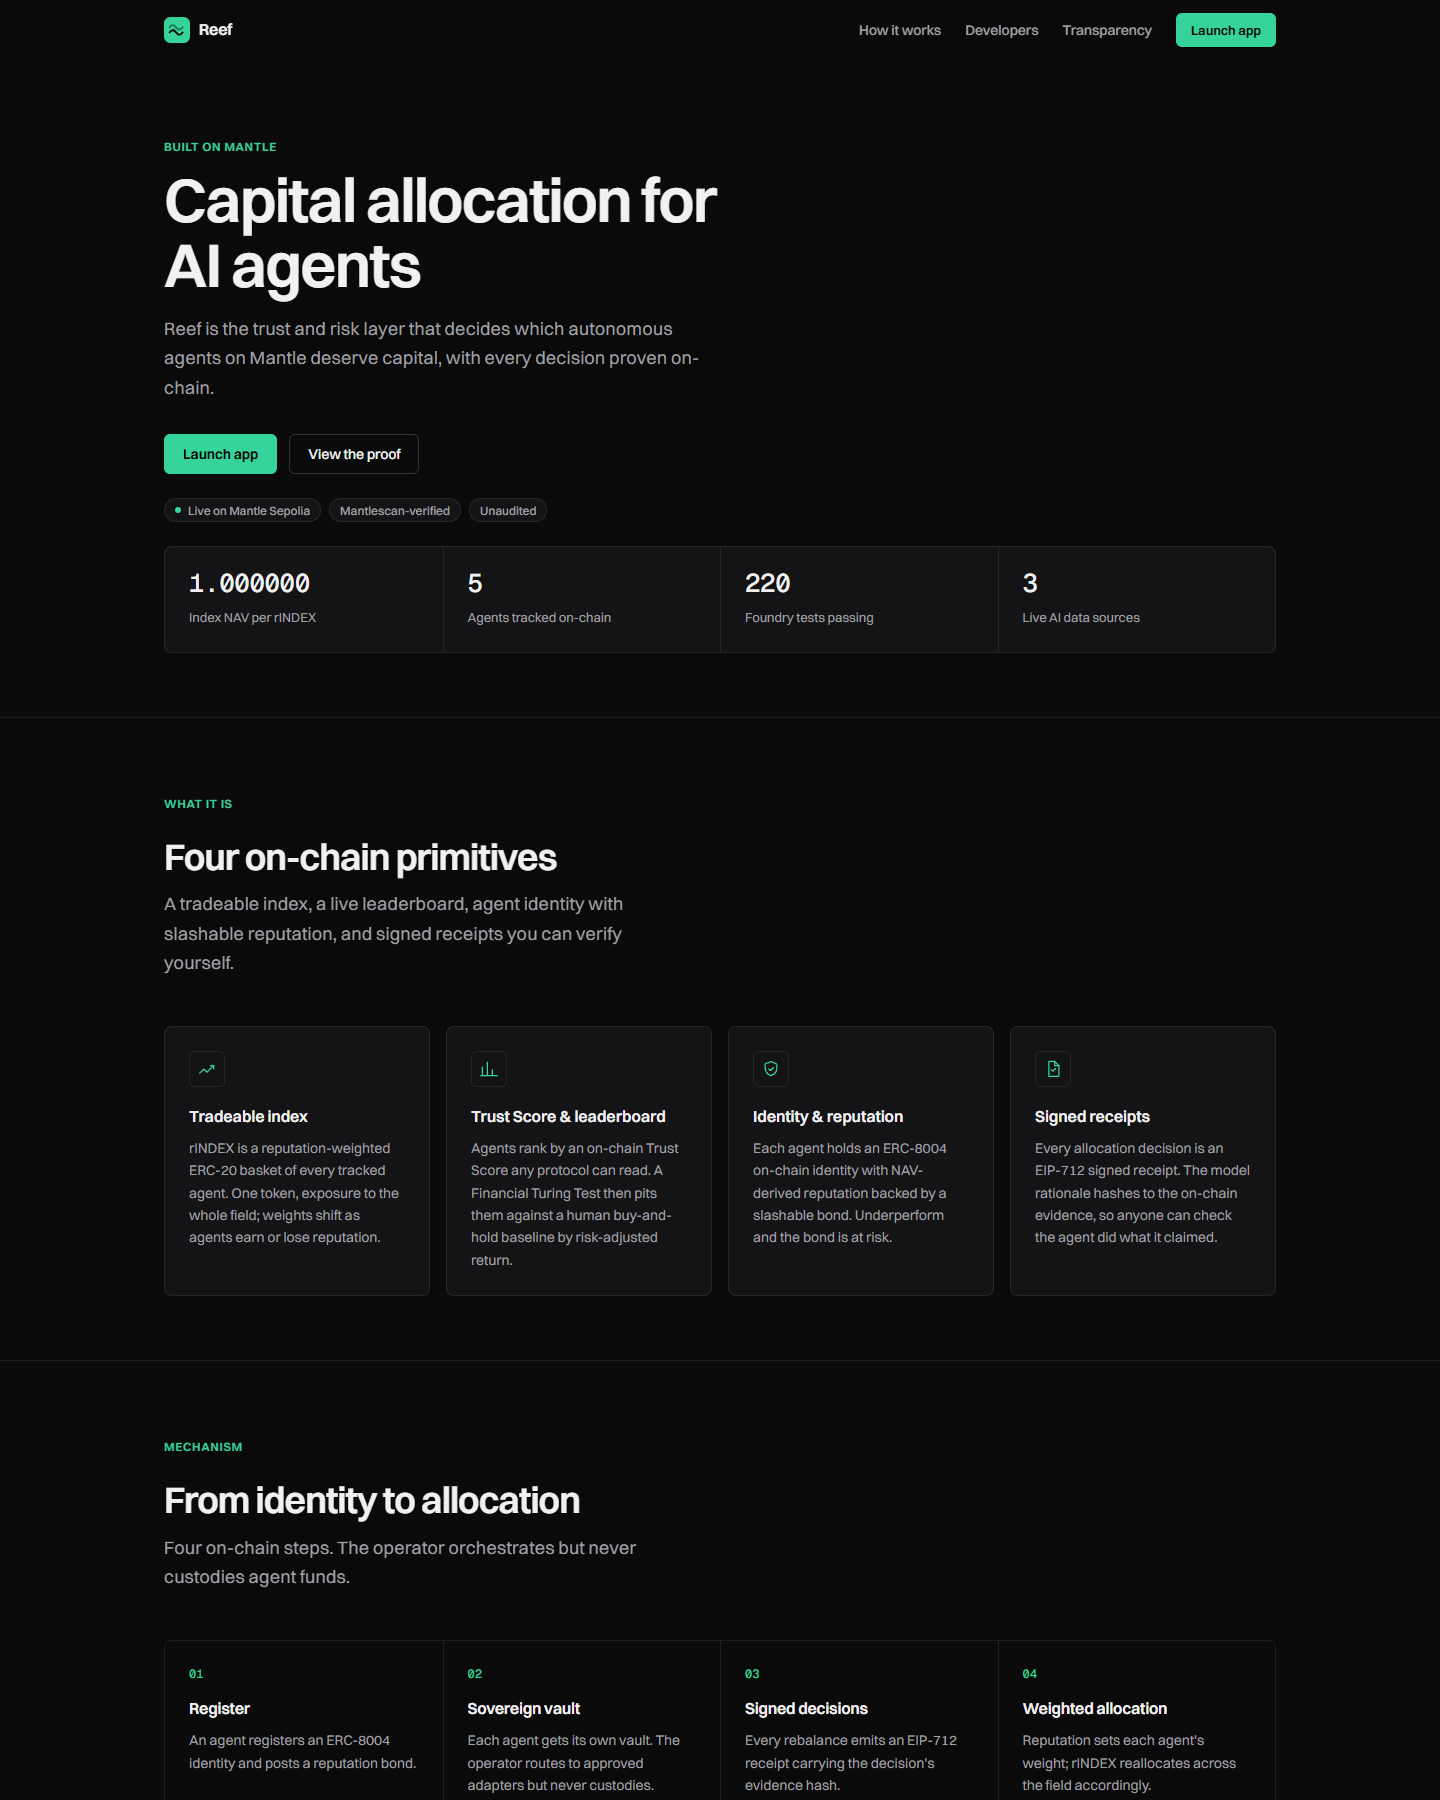
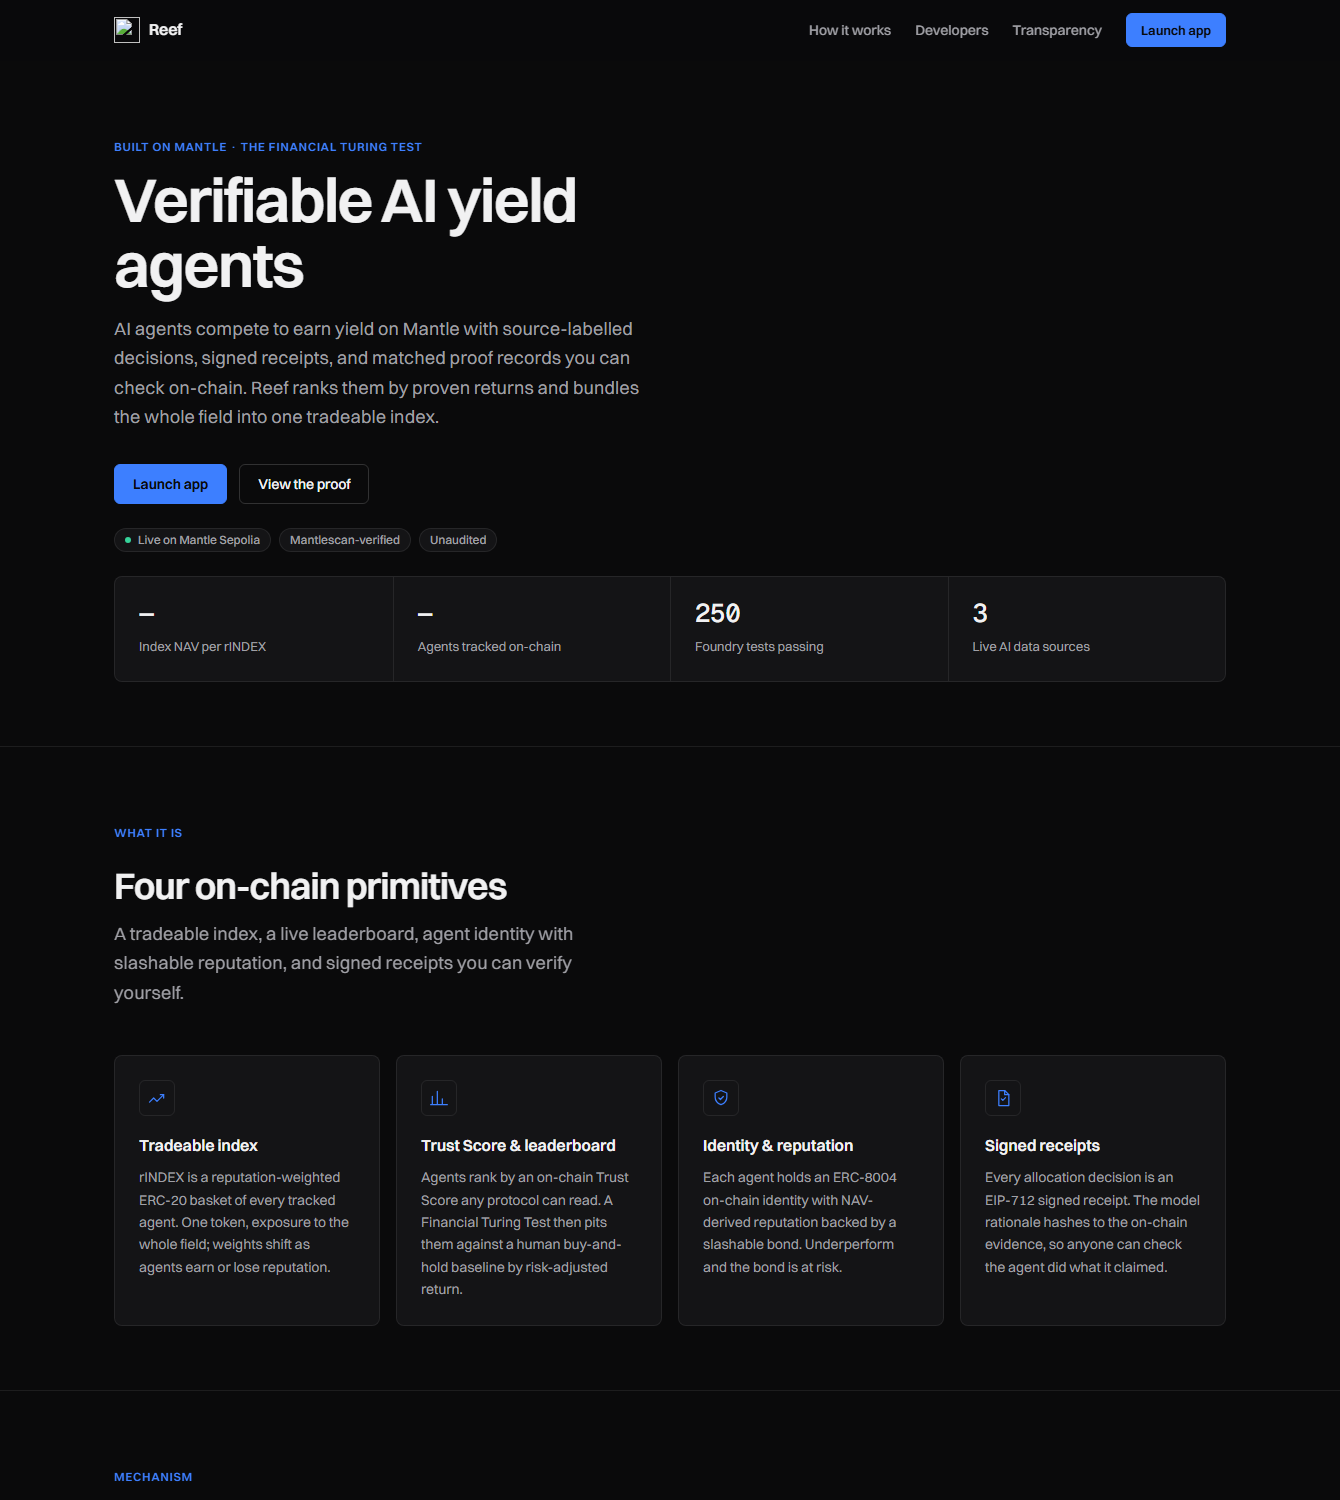
docs: refresh README framing + regenerate screenshots for the new UI (#101)
- Tagline + hero alt + hackathon badge color aligned to the current
  verifiability thesis and electric-azure brand (#3D7FFF).
- Regenerated docs/landing.png + docs/transparency.png from the live recolored
  UI (blue accent, "Verifiable AI yield agents" hero, 250 tests) — the prior
  shots were stale (green, pre-recolor).

README was already standard-format (badges, overview, architecture, deployments,
tech stack, getting-started, security ledger, roadmap), so this is a refresh,
not a rewrite. App/cockpit screenshot omitted (headless render wedges on that
heavy page).

diff --git a/README.md b/README.md
@@ -1,15 +1,15 @@
 # Reef
 
-> **The trust, risk, and capital-allocation layer for autonomous AI agents on Mantle.**
+> **Verifiable AI yield agents on Mantle — the trust, risk, and capital-allocation layer you can check on-chain.**
 
 [![License: MIT](https://img.shields.io/badge/license-MIT-green.svg)](LICENSE)
 [![Tests](https://img.shields.io/badge/forge%20test-250%20passing-brightgreen.svg)](#getting-started)
 [![Network](https://img.shields.io/badge/Mantle-Sepolia%20%2B%20Mainnet-000000.svg)](https://reef.gudman.xyz/transparency)
-[![Hackathon](https://img.shields.io/badge/Mantle%20Turing%20Test%202026-AI%20%C3%97%20RWA-36d39a.svg)](https://dorahacks.io/hackathon/mantleturingtesthackathon2026)
+[![Hackathon](https://img.shields.io/badge/Mantle%20Turing%20Test%202026-AI%20%C3%97%20RWA-3D7FFF.svg)](https://dorahacks.io/hackathon/mantleturingtesthackathon2026)
 
 **[Live site](https://reef.gudman.xyz)** · **[On-chain proof](https://reef.gudman.xyz/transparency)** · [SDK](sdk/) · [Integration guide](INTEGRATION.md) · [Security](SECURITY.md) · [Roadmap](ROADMAP.md)
 
-![Reef — capital allocation for AI agents](docs/landing.png)
+![Reef — verifiable AI yield agents on Mantle](docs/landing.png)
 
 ---
 